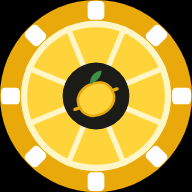
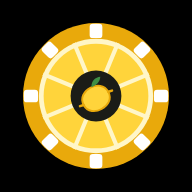
Shrink the chip inside a black border; restore the empty web manifest
The chip now fills 76% of each icon (12% black border each side), still on
solid black to the edges. The tiny 32px favicon keeps the chip full size.
manifest.webmanifest had been truncated to an empty file by #35; it is back,
with black colours and ?v=5 icon URLs, which the pages now use too.

Claude-Session: https://claude.ai/code/session_01FG5MMNeKtnNFWnwAWjiWPe

diff --git a/studio/index.html b/studio/index.html
@@ -1,4 +1,4 @@
-<!doctype html><html lang="en"><head><meta charset="utf-8"><meta name="viewport" content="width=device-width,initial-scale=1,viewport-fit=cover"><link rel="apple-touch-icon" sizes="180x180" href="apple-touch-icon.png?v=4"><link rel="apple-touch-icon" sizes="512x512" href="icon-512.png?v=4"><link rel="icon" type="image/png" sizes="192x192" href="favicon-192.png?v=4"><link rel="manifest" href="manifest.webmanifest?v=4"><meta property="og:title" content="Citrus Poker"><meta property="og:image" content="icon-512.png?v=4"><title>Citrus Poker</title><style>
+<!doctype html><html lang="en"><head><meta charset="utf-8"><meta name="viewport" content="width=device-width,initial-scale=1,viewport-fit=cover"><link rel="apple-touch-icon" sizes="180x180" href="apple-touch-icon.png?v=5"><link rel="apple-touch-icon" sizes="512x512" href="icon-512.png?v=5"><link rel="icon" type="image/png" sizes="192x192" href="favicon-192.png?v=5"><link rel="manifest" href="manifest.webmanifest?v=5"><meta property="og:title" content="Citrus Poker"><meta property="og:image" content="icon-512.png?v=5"><title>Citrus Poker</title><style>
 :root{--bg:#0d1316;--panel:#151f23;--panel2:#1c2b2f;--line:#304449;--ink:#edf2ee;--muted:#9fb2b1;--green:#9cdbaf;--gold:#e5c38c;--blue:#92c7df;--red:#f09b88}*{box-sizing:border-box}body{margin:0;background:var(--bg);color:var(--ink);font:14px/1.5 'Segoe UI',system-ui,sans-serif}button,input,textarea,select{font:inherit;color:inherit}button{cursor:pointer}a{color:var(--green)}.shell{max-width:1560px;margin:auto;padding:21px}.top{display:flex;justify-content:space-between;align-items:center;border-bottom:1px solid var(--line);padding-bottom:16px;gap:12px}.brand{font-size:19px;font-weight:800;letter-spacing:.07em}.brand span{color:var(--green)}.badge{font-size:10px;text-transform:uppercase;letter-spacing:.09em;color:var(--gold);border:1px solid var(--line);padding:6px 9px;border-radius:20px}.hero{display:flex;justify-content:space-between;align-items:end;gap:20px;margin:24px 0 20px}.hero h1{font-size:34px;line-height:1.08;letter-spacing:-.035em;margin:6px 0}.hero p{color:var(--muted);max-width:850px;margin:8px 0}.eyebrow{font-size:10px;text-transform:uppercase;letter-spacing:.14em;color:var(--green);font-weight:750}.layout{display:grid;grid-template-columns:320px minmax(0,1fr);gap:16px}.card{background:var(--panel);border:1px solid var(--line);border-radius:12px;padding:16px;min-width:0}.card h2{font-size:18px;line-height:1.2;margin:3px 0 12px}.card h3{font-size:13px;margin:15px 0 8px}.setup{align-self:start}.fields{display:grid;grid-template-columns:1fr 1fr;gap:9px}.field{min-width:0}.wide{grid-column:1/-1}.field label{display:block;text-transform:uppercase;letter-spacing:.055em;color:var(--muted);font-size:10px;margin-bottom:5px}.input{width:100%;background:#0d171b;border:1px solid var(--line);border-radius:7px;padding:8px 9px}.input:focus{outline:1px solid var(--green)}textarea.input{resize:vertical;min-height:82px;font:12px/1.5 Consolas,monospace}.btn{padding:8px 12px;border-radius:7px;border:1px solid #638b74;background:#2c503f;color:var(--ink);font-weight:650}.btn:hover{filter:brightness(1.12)}.btn:disabled{opacity:.4;cursor:default}.btn.secondary{border-color:var(--line);background:#1b2d31;font-weight:500}.btn.stop{background:#432923;border-color:#9f7365}.row{display:flex;align-items:center;gap:8px;flex-wrap:wrap}.between{justify-content:space-between}.gap{margin-top:12px}.small{font-size:11px}.muted{color:var(--muted)}.help{font-size:11px;color:var(--muted);margin:6px 0}.notice{background:#29291f;border-left:3px solid var(--gold);border-radius:0 7px 7px 0;padding:10px 11px;color:#eadcbe;font-size:11px;margin:12px 0}.notice.green{border-color:var(--green);background:#192e25;color:#cfe5d5}.status{font-size:12px;color:var(--blue);min-height:20px;margin-top:9px}.status.error{color:var(--red)}.progress{height:5px;background:#2d3c3c;border-radius:5px;margin-top:9px;overflow:hidden}.progress i{display:block;height:100%;width:0;background:var(--green)}.stats{display:grid;grid-template-columns:repeat(4,1fr);gap:8px;margin:12px 0}.stat{border:1px solid var(--line);background:#0e191c;padding:10px;border-radius:8px}.stat small{display:block;font-size:10px;color:var(--muted)}.stat strong{font-size:20px;font-weight:650;display:block}.stat span{font-size:10px;color:var(--muted)}.tabs{display:flex;flex-wrap:wrap;gap:5px;border-bottom:1px solid var(--line);padding-bottom:10px;margin-bottom:14px}.tabs button{border:1px solid transparent;border-radius:7px;padding:7px 11px;background:transparent;color:var(--muted)}.tabs button.active{background:#243a33;border-color:#3f6352;color:var(--green)}.view{display:none}.view.active{display:block}.seatList{display:grid;gap:5px;margin:9px 0}.seatInput{display:grid;grid-template-columns:1fr 75px 65px;gap:6px;align-items:center}.seatInput label{font-size:11px;color:var(--muted)}.seatInput .input{padding:5px}.seatHead{font-size:9px;color:var(--muted);text-transform:uppercase}.toggle{display:flex;align-items:center;gap:5px;font-size:11px;color:var(--muted)}details{border-top:1px solid var(--line);padding-top:10px;margin-top:12px}summary{cursor:pointer;font-size:12px;color:var(--blue);margin-bottom:10px}.felt{position:relative;border:7px solid #554b3a;border-radius:46%;min-height:420px;background:#1b493d;box-shadow:inset 0 0 0 2px #72826a;margin:18px 10px}.feltCenter{position:absolute;left:50%;top:50%;transform:translate(-50%,-50%);min-width:260px;max-width:70%;text-align:center}.player{position:absolute;transform:translate(-50%,-50%);background:#102921;border:1px solid #678373;padding:7px 9px;min-width:91px;max-width:128px;text-align:center;font-size:11px;border-radius:8px}.player.active{outline:2px solid var(--green)}.player.folded{opacity:.48}.player.you{border-color:var(--gold)}.player b{display:block}.player small{color:#bfd1c5}.dealer{display:inline-grid;place-items:center;border-radius:50%;width:16px;height:16px;color:#17231c;background:#e7e8d7;font-size:9px;font-weight:800;margin-left:4px}.cards{display:flex;gap:4px;justify-content:center;margin:7px 0;flex-wrap:wrap}.pcard{background:#f1f0e6;color:#1b2727;border:1px solid #dedccf;border-radius:5px;width:35px;height:47px;display:grid;place-items:center;font-size:19px;font-weight:750;box-shadow:0 2px 4px #0004}.pcard.red{color:#b64138}.pcard.back{background:#1d3533;color:#a7c2b4;border-color:#779a85}.cards.hole .pcard{width:39px;height:51px}.actions{display:flex;gap:7px;flex-wrap:wrap}.actions button{flex:1;min-width:96px}.result{background:#101c20;border:1px solid var(--line);border-radius:8px;padding:12px;margin:10px 0;font-size:12px}.result strong{color:var(--green)}.log{max-height:230px;overflow:auto;font-size:11px}.log div{border-bottom:1px solid var(--line);padding:6px 0}.cols{display:grid;grid-template-columns:1.2fr .8fr;gap:14px}.policyRow{padding:8px;background:#101e20;border:1px solid var(--line);border-radius:7px;margin:6px 0}.bar{height:5px;background:#263c3b;margin:6px 0;border-radius:5px;overflow:hidden}.bar i{height:100%;display:block;background:var(--green)}.matrix{display:grid;grid-template-columns:repeat(13,1fr);gap:3px;margin:12px 0}.cell{font-size:10px;font-weight:700;padding:5px 0;min-height:30px;border-radius:4px;border:1px solid #3a5048;background:#23372f;color:#dceade}.cell:disabled{opacity:.3;cursor:default}.cell.sel{outline:2px solid var(--gold)}.tableWrap{overflow:auto;border:1px solid var(--line);border-radius:8px;max-height:340px;margin:12px 0}table{border-collapse:collapse;width:100%;font-size:11px}th,td{padding:8px;border-bottom:1px solid var(--line);text-align:left}th{position:sticky;top:0;background:#1b2c2e;color:var(--muted)}.item{background:#101d20;border:1px solid var(--line);border-radius:8px;padding:11px;margin:8px 0}.item h3{margin:0 0 5px}.hide{display:none!important}.foot{color:#7e9791;font-size:11px;margin-top:20px}.ruleText p,.ruleText li{font-size:12px;color:var(--muted)}.stackSummary{font-size:10px;color:var(--muted);margin-bottom:5px}.choice{color:var(--gold)}@media(max-width:1150px){.layout{grid-template-columns:290px minmax(0,1fr)}.stats{grid-template-columns:1fr 1fr}.cols{grid-template-columns:1fr}.felt{min-height:400px;margin:15px 0}.player{min-width:80px;padding:6px;font-size:10px}}@media(max-width:800px){.layout{grid-template-columns:1fr}.setup .fields{grid-template-columns:repeat(4,1fr)}.setup .wide{grid-column:span 2}.setup .seatList{grid-template-columns:1fr 1fr}.hero{display:block}.felt{min-height:450px}}@media(max-width:500px){.shell{padding:12px}.hero h1{font-size:28px}.badge{font-size:8px}.card{padding:12px}.setup .fields{grid-template-columns:1fr 1fr}.setup .wide{grid-column:1/-1}.setup .seatList{grid-template-columns:1fr}.felt{min-height:350px;border-width:5px;border-radius:38%;margin:20px 0}.player{min-width:65px;max-width:84px;font-size:9px;padding:4px}.feltCenter{min-width:215px;max-width:65%}.pcard{width:30px;height:41px;font-size:17px}.cards.hole .pcard{width:31px;height:42px}.cell{font-size:8px;min-height:26px}.matrix{gap:2px}.tabs button{padding:6px 8px}}
 
 __TABLE_STYLE__

diff --git a/studio/friends.html b/studio/friends.html
@@ -1,5 +1,5 @@
 <!doctype html>
-<html lang="en"><head><meta charset="utf-8"><meta name="viewport" content="width=device-width,initial-scale=1,viewport-fit=cover"><meta name="theme-color" content="#0d1316"><link rel="apple-touch-icon" sizes="180x180" href="apple-touch-icon.png?v=4"><link rel="apple-touch-icon" sizes="512x512" href="icon-512.png?v=4"><link rel="icon" type="image/png" sizes="192x192" href="favicon-192.png?v=4"><link rel="manifest" href="manifest.webmanifest?v=4"><meta property="og:title" content="Citrus Poker"><meta property="og:image" content="icon-512.png?v=4"><title>Play with Friends · Citrus Poker</title>
+<html lang="en"><head><meta charset="utf-8"><meta name="viewport" content="width=device-width,initial-scale=1,viewport-fit=cover"><meta name="theme-color" content="#0d1316"><link rel="apple-touch-icon" sizes="180x180" href="apple-touch-icon.png?v=5"><link rel="apple-touch-icon" sizes="512x512" href="icon-512.png?v=5"><link rel="icon" type="image/png" sizes="192x192" href="favicon-192.png?v=5"><link rel="manifest" href="manifest.webmanifest?v=5"><meta property="og:title" content="Citrus Poker"><meta property="og:image" content="icon-512.png?v=5"><title>Play with Friends · Citrus Poker</title>
 <style>
 :root{color-scheme:dark;--bg:#0d1316;--panel:#151f23;--felt:#145440;--line:#304449;--ink:#edf2ee;--muted:#9fb2b1;--green:#9cdbaf;--gold:#e5c38c;--red:#f09b88}*{box-sizing:border-box}body{margin:0;background:var(--bg);color:var(--ink);font:16px/1.45 system-ui,-apple-system,"Segoe UI",sans-serif}.shell{max-width:900px;margin:auto;padding:20px}.top,.row{display:flex;justify-content:space-between;align-items:center;gap:10px;flex-wrap:wrap}.top{border-bottom:1px solid var(--line);padding-bottom:12px}.brand{font-weight:800;letter-spacing:.08em}.brand span{color:var(--green)}a{color:var(--green)}.card{background:var(--panel);border:1px solid var(--line);border-radius:12px;padding:16px;margin:14px 0}.card h1,.card h2{margin:0 0 8px}.muted{color:var(--muted);font-size:14px}.grid{display:grid;grid-template-columns:repeat(2,minmax(0,1fr));gap:10px}.field label{display:block;color:var(--muted);font-size:12px;margin-bottom:4px}.field input,.field select{width:100%;padding:11px;background:#0c171a;border:1px solid var(--line);border-radius:8px;color:var(--ink);font:inherit}.btn{min-height:44px;padding:9px 14px;border-radius:8px;border:1px solid #638b74;background:#2c503f;color:var(--ink);font:inherit;font-weight:700}.btn.secondary{background:#1b2d31;border-color:var(--line)}.btn:disabled{opacity:.5}.status{min-height:22px;color:var(--green);margin:8px 0}.status.error{color:var(--red)}.invite{word-break:break-all;padding:10px;background:#0d171b;border-radius:8px}.hide{display:none!important}.felt{position:relative;min-height:430px;border:7px solid #514a3a;border-radius:44%;background:radial-gradient(ellipse,#1c6a51 0%,#145440 72%,#0f4437 100%);box-shadow:inset 0 0 0 2px #73876c;margin:12px 0;overflow:hidden}.middle{position:absolute;left:50%;top:50%;transform:translate(-50%,-50%);text-align:center;min-width:150px}.board,.hole{display:flex;justify-content:center;gap:5px;margin:7px}.cardface{display:grid;place-items:center;width:40px;height:54px;border-radius:6px;background:#f3f0e5;color:#172020;font-weight:800;font-size:21px;box-shadow:0 2px 4px #0005}.cardface.red{color:#bd4038}.back{background:repeating-linear-gradient(45deg,#1c3542,#1c3542 4px,#244b5b 4px,#244b5b 8px);border:1px solid #b5c9c2}.seat{position:absolute;transform:translate(-50%,-50%);min-width:95px;max-width:140px;padding:7px;background:#102923;border:1px solid #759182;border-radius:9px;text-align:center;font-size:12px;box-shadow:0 4px 12px #0005}.seat.active{outline:2px solid var(--green)}.seat.you{border-color:var(--gold)}.seat.folded{opacity:.58}.seat b,.seat small{display:block}.seat small{color:var(--muted)}.actions{display:grid;grid-template-columns:repeat(3,minmax(0,1fr));gap:8px}.actions .btn{width:100%}.log{max-height:160px;overflow:auto;font-size:13px}.log div{padding:5px;border-bottom:1px solid var(--line)}.code{font-size:24px;letter-spacing:.14em;font-weight:800;color:var(--gold)}.felt{overflow:visible;margin:58px 6% 62px}.felt[data-seats="7"],.felt[data-seats="8"],.felt[data-seats="9"]{min-height:470px}.seat>div:first-child{display:flex;justify-content:center;gap:2px;margin-bottom:3px}.seat .cardface{width:28px;height:38px;font-size:15px}.seat small.bet,.seat small.equity{color:var(--gold)}.marks{display:flex;justify-content:center;gap:3px;margin:2px 0}.marks i{font-style:normal;font-size:10px;font-weight:800;border-radius:50%;width:19px;height:19px;display:grid;place-items:center;background:#e9e6d3;color:#27342c}.marks i.sb{background:#73b6d4;color:#132a36}.marks i.bb{background:#e7c27b;color:#302513}.playing #lobby>h1,.playing #lobby>p,.playing #roomHelp,.playing #inviteLink,.playing #waitingSeats{display:none}.playing #lobby{padding:10px 14px}.playing #lobby .code{font-size:18px}@media(max-width:560px){.felt{margin:52px 10% 58px;min-height:380px}.felt[data-seats="7"],.felt[data-seats="8"],.felt[data-seats="9"]{min-height:440px}.seat .cardface{width:22px;height:30px;font-size:12px}.seat small{font-size:10px}.shell{padding:12px}.grid{grid-template-columns:1fr 1fr}.card{padding:13px}.felt{min-height:360px;border-width:5px;border-radius:36%}.seat{min-width:66px;max-width:88px;padding:4px;font-size:11px}.cardface{width:32px;height:44px;font-size:18px}.middle{min-width:120px}.actions{grid-template-columns:repeat(2,minmax(0,1fr))}.top{align-items:flex-start}}
 </style></head><body><main class="shell">
